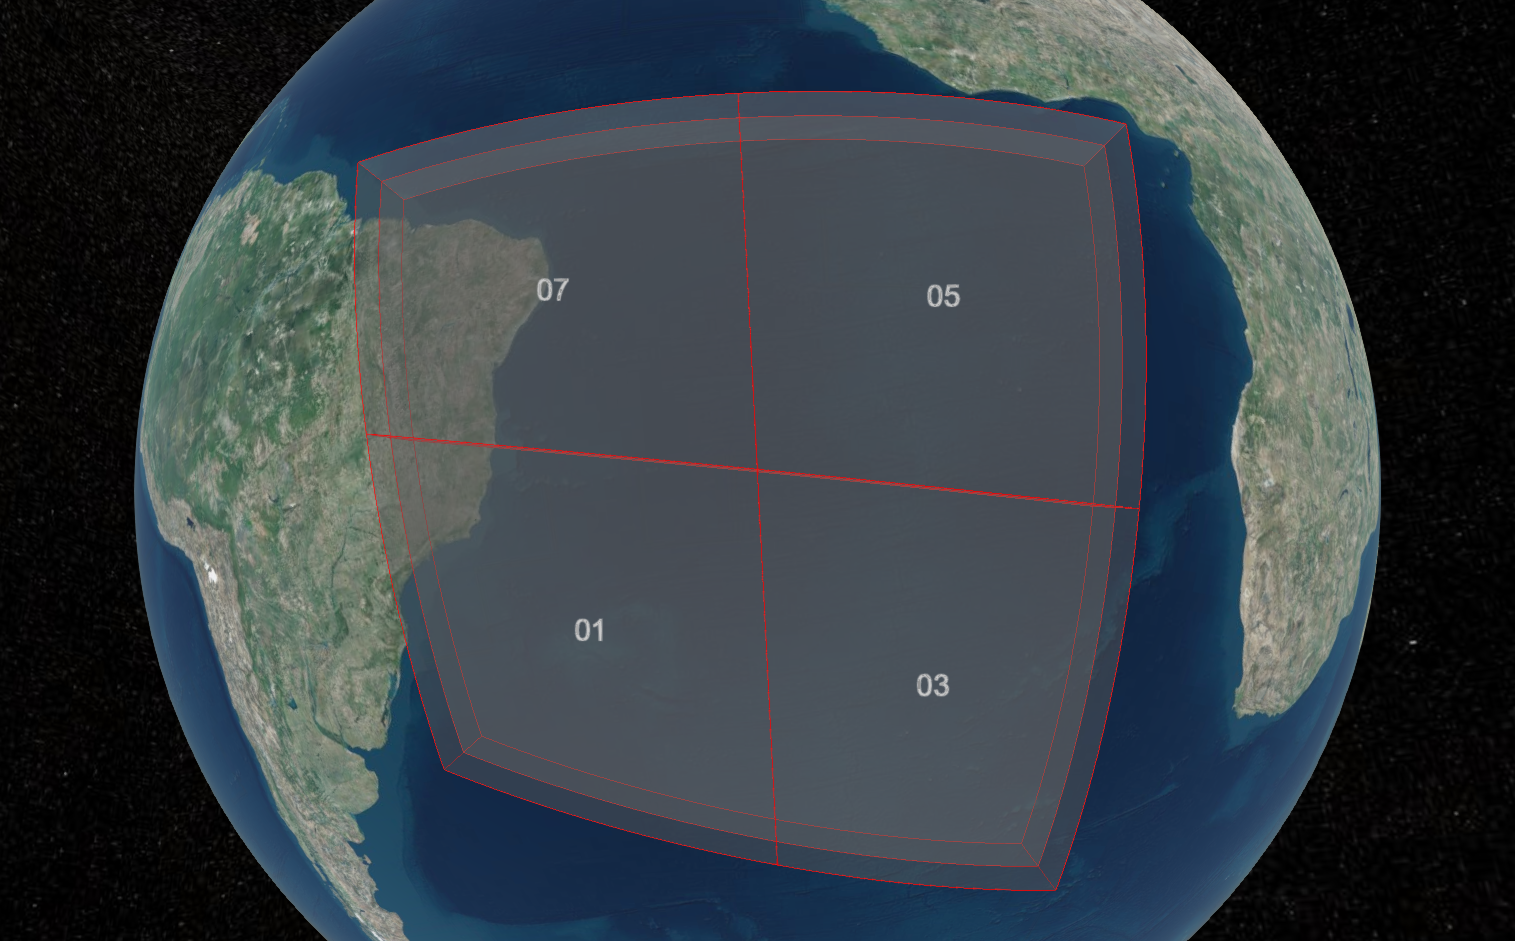
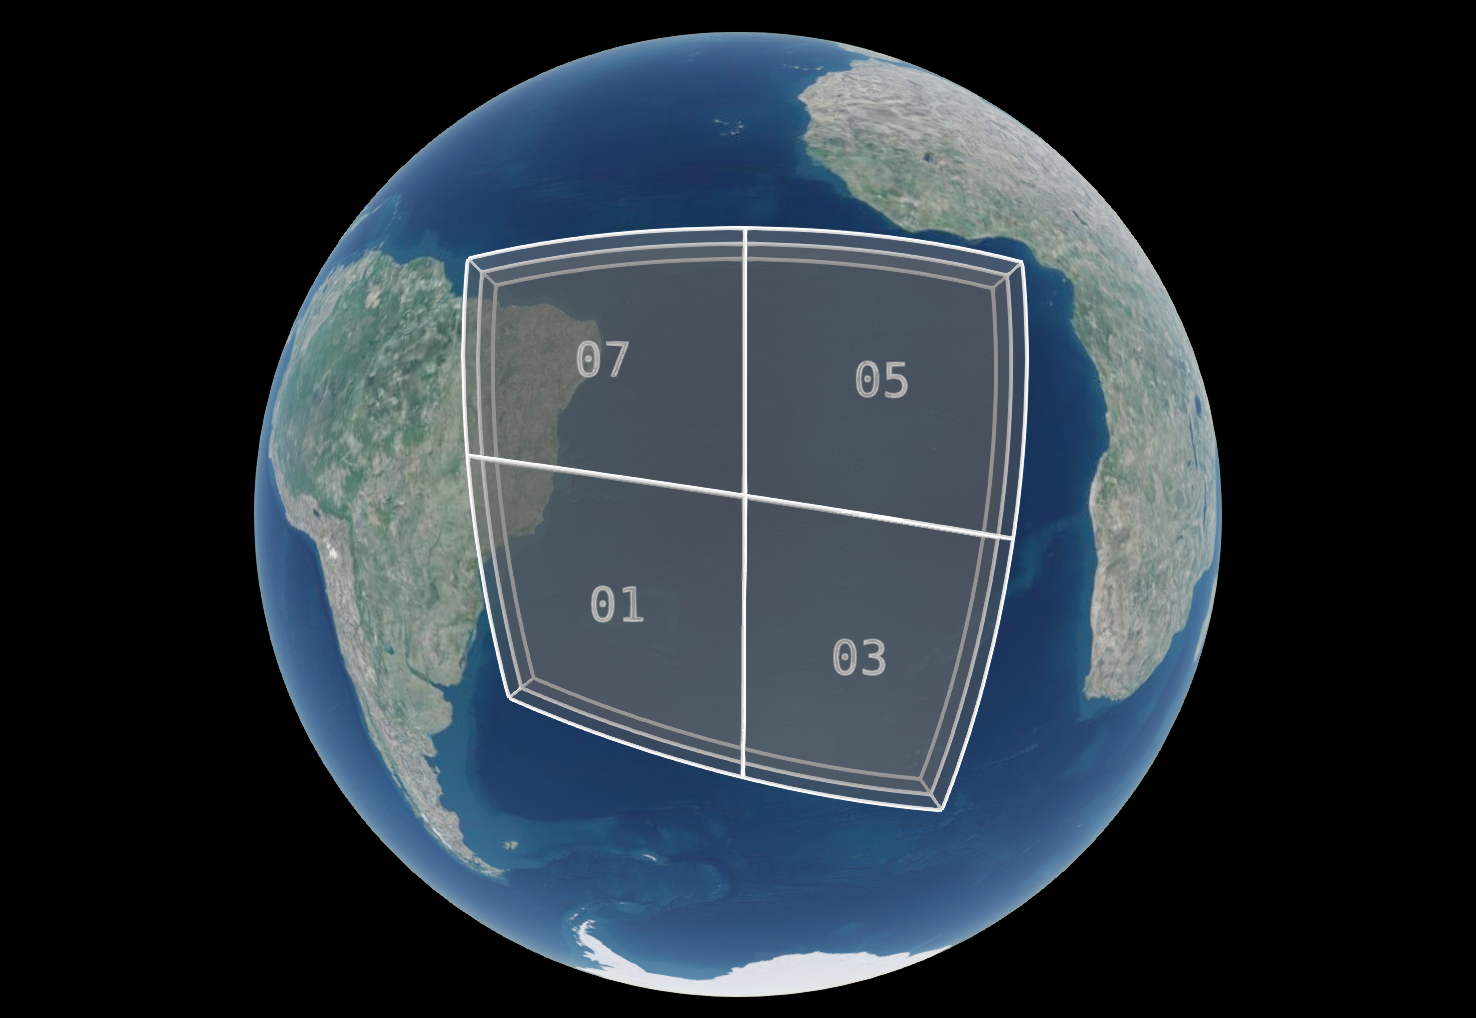
Updates diagrams

diff --git a/extensions/3DTILES_bounding_volume_S2/0.0.0/README.md b/extensions/3DTILES_bounding_volume_S2/0.0.0/README.md
@@ -41,8 +41,8 @@ This extension is required, meaning it must be placed in both the `extensionsUse
 
 |Level 0|Level 1|
 |:-:|:-:|
-| ![Plane - Level 0](figures/plane_root.png) S2 cell (`"1"`) on the Earth cube| ![Plane - Level 1](figures/plane_children.png) Children of S2 cell (`"1"`) on the Earth cube |
-| ![Ellipsoid - Level 0](figures/ellipsoid_root.png)  S2 cell (`"1"`) on the WGS84 ellipsoid| ![Ellipsoid - Level 1](figures/ellipsoid_children.png) Children of S2 cell (`"1"`) on the WGS84 ellipsoid|
+| ![Plane - Level 0](figures/plane_parent.png) S2 cell (`"1"`) on the Earth cube| ![Plane - Level 1](figures/plane_children.png) Children of S2 cell (`"1"`) on the Earth cube |
+| ![Ellipsoid - Level 0](figures/ellipsoid_parent.png)  S2 cell (`"1"`) on the WGS84 ellipsoid| ![Ellipsoid - Level 1](figures/ellipsoid_children.png) Children of S2 cell (`"1"`) on the WGS84 ellipsoid|
 
 In S2, each face of the unit cube can be subdivided into 30 levels using a quadtree structure, in which each "cell" or tile on the grid subdivides into 4 equal cells or tiles at the subsequent level. This extension to 3D Tiles enables using these cells as the basis for bounding volumes for tiles.
 
@@ -133,7 +133,7 @@ The following example illustrates usage of `3DTILES_bounding_volume_S2` with `3D
 
 The following example usage of `3DTILES_bounding_volume_S2` to represent all 6 faces of S2, to represent a tileset with global coverage:
 
-![Global Coverage](figures/global.png)
+![Global Coverage](figures/globe.png)
 
 ```json
 {
@@ -169,7 +169,7 @@ The following example usage of `3DTILES_bounding_volume_S2` to represent all 6 f
             "3DTILES_bounding_volume_S2": {
               "token": "1",
               "minimumHeight": 0,
-              "maximumHeight": 25000
+              "maximumHeight": 1000000
             }
           }
         },
@@ -182,7 +182,7 @@ The following example usage of `3DTILES_bounding_volume_S2` to represent all 6 f
             "3DTILES_bounding_volume_S2": {
               "token": "3",
               "minimumHeight": 0,
-              "maximumHeight": 25000
+              "maximumHeight": 1000000
             }
           }
         },
@@ -195,7 +195,7 @@ The following example usage of `3DTILES_bounding_volume_S2` to represent all 6 f
             "3DTILES_bounding_volume_S2": {
               "token": "5",
               "minimumHeight": 0,
-              "maximumHeight": 25000
+              "maximumHeight": 1000000
             }
           }
         },
@@ -208,7 +208,7 @@ The following example usage of `3DTILES_bounding_volume_S2` to represent all 6 f
             "3DTILES_bounding_volume_S2": {
               "token": "7",
               "minimumHeight": 0,
-              "maximumHeight": 25000
+              "maximumHeight": 1000000
             }
           }
         },
@@ -221,7 +221,7 @@ The following example usage of `3DTILES_bounding_volume_S2` to represent all 6 f
             "3DTILES_bounding_volume_S2": {
               "token": "9",
               "minimumHeight": 0,
-              "maximumHeight": 25000
+              "maximumHeight": 1000000
             }
           }
         },
@@ -234,7 +234,7 @@ The following example usage of `3DTILES_bounding_volume_S2` to represent all 6 f
             "3DTILES_bounding_volume_S2": {
               "token": "b",
               "minimumHeight": 0,
-              "maximumHeight": 25000
+              "maximumHeight": 1000000
             }
           }
         },
